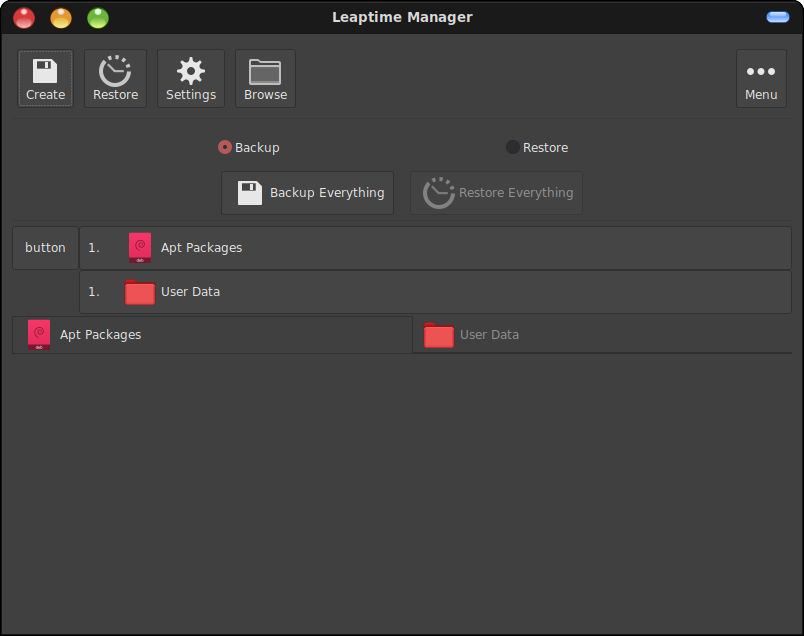
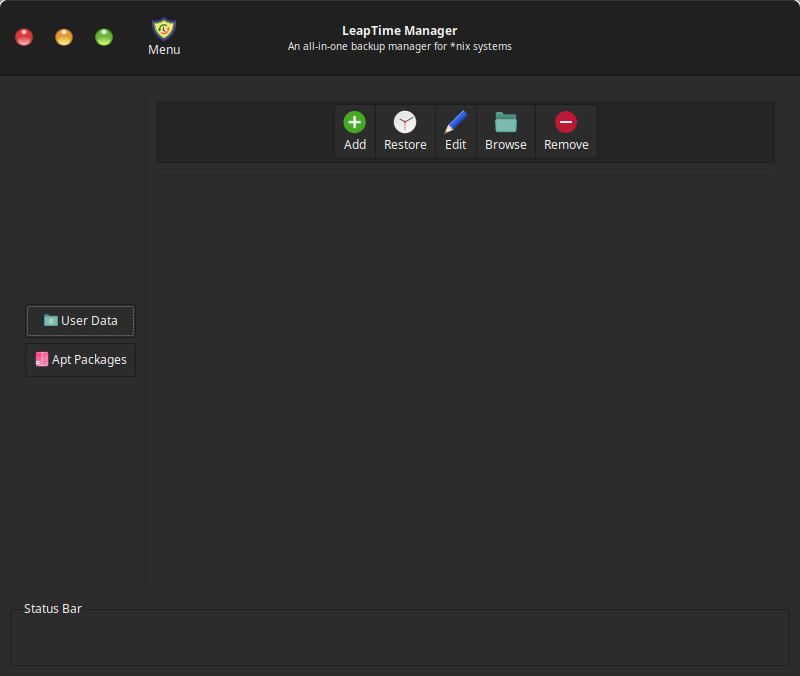
Update screenshots and page

diff --git a/index.html b/index.html
@@ -3,7 +3,7 @@
   <head>
     <meta charset="utf-8">
     <meta name="viewport" content="width=device-width, initial-scale=1.0">
-    <title>Home | Repository Info for Leaptime Manager</title>
+    <title>Home | Repository Info for LeapTime Manager</title>
     
     <!-- Stylesheets -->
     <link href="https://hsbasu.github.io/styles/css-styles/styles.css" rel="stylesheet" type="text/css">
@@ -37,54 +37,61 @@
       <!-- Begin Articles -->
       <div class="article-content" id="articles">
         <template type="markdown">
-# [Leaptime Manager](https://github.com/hsbasu/leaptime-manager)
+# [LeapTime Manager](https://github.com/hsbasu/leaptime-manager)
 
 # Work In Progress
 This App is currently under **development**. So, This is not what a regular user would expect. If you are a developer and would like to contribute, only then download of fork this repo.
 
 <p class="badges">
-  <img src="https://raw.githubusercontent.com/hsbasu/leaptime-manager/master/usr/share/icons/hicolor/scalable/apps/leaptime-manager.svg?sanitize=true" height="128" alt="Logo"></br>
+  <img src="https://raw.githubusercontent.com/mamolinux/leaptime-manager/master/data/icons/leaptime-manager.svg?sanitize=true" height="128" alt="Logo"></br>
   
-  <a class="badges" href="https://github.com/hsbasu/leaptime-manager/actions/workflows/ci.yml">
-    <img src="https://img.shields.io/github/actions/workflow/status/hsbasu/leaptime-manager/ci.yml?branch=master&label=CI%20Build" alt="CI build">
+  <a class="badges" href="https://github.com/mamolinux/leaptime-manager/actions/workflows/ci.yml">
+		<img src="https://img.shields.io/github/actions/workflow/status/mamolinux/leaptime-manager/ci.yml?branch=master&label=CI%20Build" alt="CI build">
   </a>
-  <a class="badges" href="https://github.com/hsbasu/leaptime-manager/actions/workflows/codeql-analysis.yml">
-    <img src="https://img.shields.io/github/actions/workflow/status/hsbasu/leaptime-manager/codeql-analysis.yml?branch=master&label=CodeQL%20Build" alt="CodeQL build">
+  <a class="badges" href="https://github.com/mamolinux/leaptime-manager/actions/workflows/codeql-analysis.yml">
+		<img src="https://img.shields.io/github/actions/workflow/status/mamolinux/leaptime-manager/codeql-analysis.yml?branch=master&label=CodeQL%20Build" alt="CodeQL build">
   </a>
-  <a class="badges" href="https://github.com/hsbasu/leaptime-manager/blob/master/LICENSE">
-    <img src="https://img.shields.io/github/license/hsbasu/leaptime-manager?label=License" alt="License">
+  <a class="badges" href="https://github.com/mamolinux/leaptime-manager/blob/master/LICENSE">
+		<img src="https://img.shields.io/github/license/mamolinux/leaptime-manager?label=License" alt="License">
   </a>
   <a class="badges" href="#">
-    <img src="https://img.shields.io/github/repo-size/hsbasu/leaptime-manager?label=Repo%20size" alt="GitHub repo size">
+    <img src="https://img.shields.io/github/repo-size/mamolinux/leaptime-manager?label=Repo%20size" alt="GitHub repo size">
   </a>
-  <a class="badges" href="https://github.com/hsbasu/leaptime-manager/releases/latest">
-    <img src="https://img.shields.io/github/v/release/hsbasu/leaptime-manager?label=Latest%20Stable%20Release" alt="GitHub release (latest by date)">
+  <a class="badges" href="https://github.com/mamolinux/leaptime-manager/releases/latest">
+    <img src="https://img.shields.io/github/v/release/mamolinux/leaptime-manager?label=Latest%20Stable%20Release" alt="GitHub release (latest by date)">
   </a>
-  <a class="badges" href="https://github.com/hsbasu/leaptime-manager/issues" target="_blank">
-    <img src="https://img.shields.io/github/issues/hsbasu/leaptime-manager?label=Issues" alt="Open Issues">
+  <a class="badges" href="https://github.com/mamolinux/leaptime-manager/issues" target="_blank">
+		<img src="https://img.shields.io/github/issues/mamolinux/leaptime-manager?label=Issues" alt="Open Issues">
   </a>
-  <a class="badges" href="https://github.com/hsbasu/leaptime-manager/pulls" target="_blank">
-    <img src="https://img.shields.io/github/issues-pr/hsbasu/leaptime-manager?label=PR" alt="Open PRs">
+  <a class="badges" href="https://github.com/mamolinux/leaptime-manager/pulls" target="_blank">
+		<img src="https://img.shields.io/github/issues-pr/mamolinux/leaptime-manager?label=PR" alt="Open PRs">
   </a>
   <a class="badges" href="#download-latest-version">
-    <img src="https://img.shields.io/github/downloads/hsbasu/leaptime-manager/total?label=Downloads" alt="Downloads">
-  </a>
-  <a class="badges" href="https://github.com/hsbasu/leaptime-manager/releases/download/1.0.0/leaptime-manager_1.0.0_all.deb">
-    <img src="https://img.shields.io/github/downloads/hsbasu/leaptime-manager/1.0.0/leaptime-manager_1.0.0_all.deb?label=Downloads%40Latest%20Binary" alt="GitHub release (latest by date and asset">
-  </a>
+		<img src="https://img.shields.io/github/downloads/mamolinux/leaptime-manager/total?label=Downloads" alt="Downloads">
+	</a>
+  <a class="badges" href="https://github.com/mamolinux/leaptime-manager/releases/download/1.0.1/leaptime-manager_1.0.1_all.deb">
+		<img src="https://img.shields.io/github/downloads/mamolinux/leaptime-manager/1.0.1/leaptime-manager_1.0.1_all.deb?color=blue&label=Downloads%40Latest%20Binary" alt="GitHub release (latest by date and asset)">
+	</a>
 </p>
 
-Aiming to be an all-in-one, friendly to new-users, GUI based backup manager for Debian/Ubuntu based systems.
+Aiming to be an all-in-one, friendly to new-users, GUI based backup manager for Debian/Ubuntu based systems. The main purpose of this application is to help user backup and restore every component on a Debian/Ubuntu based system ergonimically, elegantly and separately.
 
 ## ToDo List
 **Software:**
-1. [ ] Apt backup
-2. [ ] Apt restore
+1. [x] Apt backup
+2. [x] Apt restore
+
 **Data:**
-1. [ ] Sync mode using `rsync` (Continuously synchonizes another directory/files)
-2. [ ] Backup Mode (Creates incremental backups)
-	1. [ ] Using `rsync`
-	2. [ ] By creating compressed tarballs (Reduces disk-space usage)
+Data backup should have two modes:
+1. [ ] Sync mode- where file(s) or directories are synchronized continuously with another keeping only the latest version. Useful for backing up static data like some script which are updated time to time or security keys like ssh or gpg keys. Use one of the following modes
+    1. [ ] Compressed backup - tar ball of data (Reduces disk-space usage)
+    2. [ ] Rsync: using `rsync`
+    3. [ ] Add option for user-defined time interval to sync data
+
+3. [ ] Incremental mode: Where incremental backups are created like any other backup app. Use one of the following modes
+    1. [ ] Compressed backup - tar ball of data (Reduces disk-space usage)
+    2. [ ] Rsync: using `rsync`
+    1. [ ] Add option for user-defined time interval to backup data
 
 ## Download Latest Version
 
@@ -96,13 +103,15 @@ Aiming to be an all-in-one, friendly to new-users, GUI based backup manager for 
 </p>
 
 ## Features and Screenshots
-
-The main purpose of this application is to ...[Coming Soon or create a PR.]
+1. Backup manually installed applications to a list
+2. Restore applications from backup lists
 
 ### Sample Screenshot
 <p class="badges">
 	<img src="https://github.com/hsbasu/leaptime-manager/raw/gh-pages/screenshots/main-window-light.png" alt="Main Window (Light)">
 	<img src="https://github.com/hsbasu/leaptime-manager/raw/gh-pages/screenshots/main-window-dark.png" alt="Main Window (Dark)">
+	<img src="https://github.com/hsbasu/leaptime-manager/raw/gh-pages/screenshots/apt-backup-main-light.png" alt="App backup main page (Light)">
+	<img src="https://github.com/hsbasu/leaptime-manager/raw/gh-pages/screenshots/apt-backup-main-dark.png" alt="App backup main page (Dark)">
 </p>
 
 ## Contents
@@ -128,7 +137,7 @@ python3-gi
 python3-setproctitle
 python3-tldextract
 ```
-To use or test Leaptime Manager, you need these dependencies to be installed.
+To use or test LeapTime Manager, you need these dependencies to be installed.
 
 ### Debian/Ubuntu based distro
 To install dependencies on Debian/Ubuntu based systems, run:
@@ -136,7 +145,7 @@ To install dependencies on Debian/Ubuntu based systems, run:
 sudo apt install python3 python3-configobj python3-gi \
 python3-setproctitle python3-tldextract
 ```
-**Note**: If you are using `gdebi` to install **Leaptime Manager** from a `.deb` file, it will automatically install the dependencies and you can skip this step.
+**Note**: If you are using `gdebi` to install **LeapTime Manager** from a `.deb` file, it will automatically install the dependencies and you can skip this step.
 
 ### Other Linux-based distro
 Replace `apt install` in the command given in [Debian/Ubuntu based distros](#debianubuntu-based-distro) and use the command for the package manager of the target system(eg. `yum install`, `dnf install`, `pacman -S` etc.)
